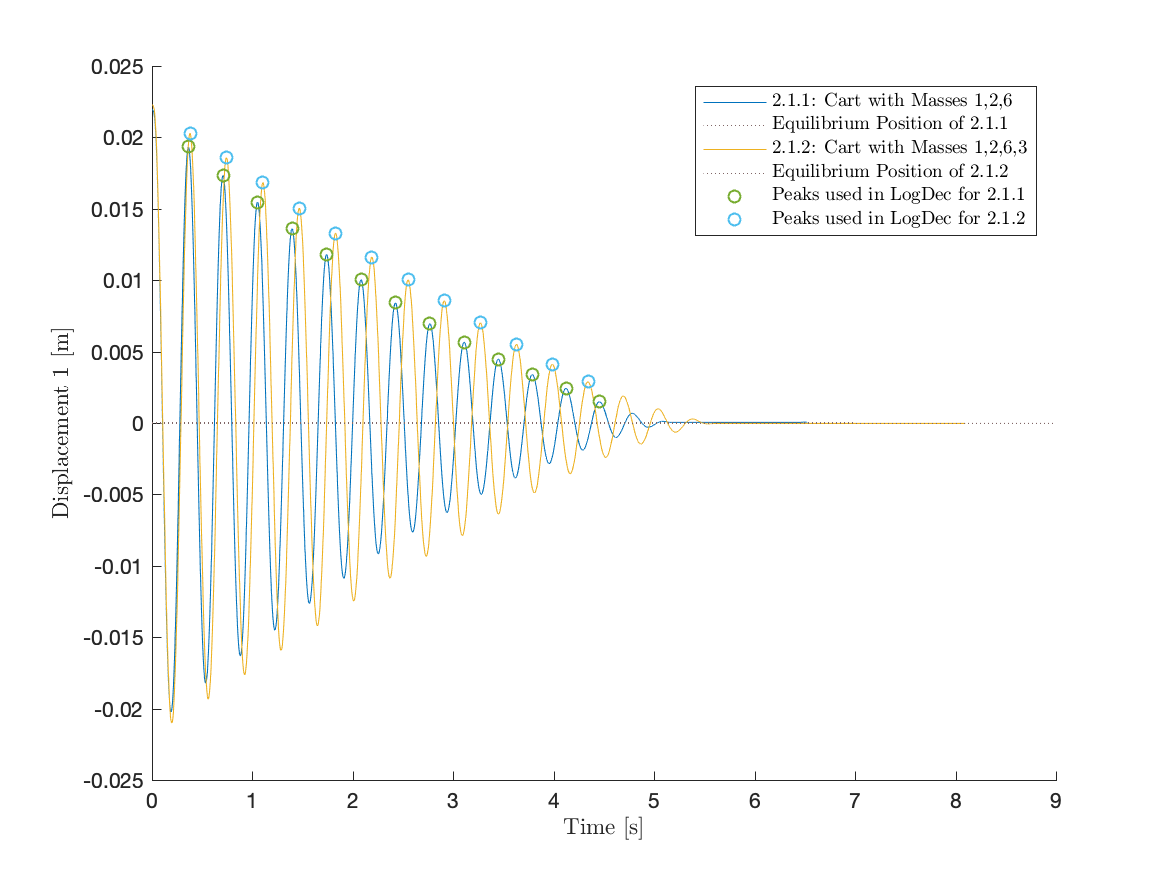
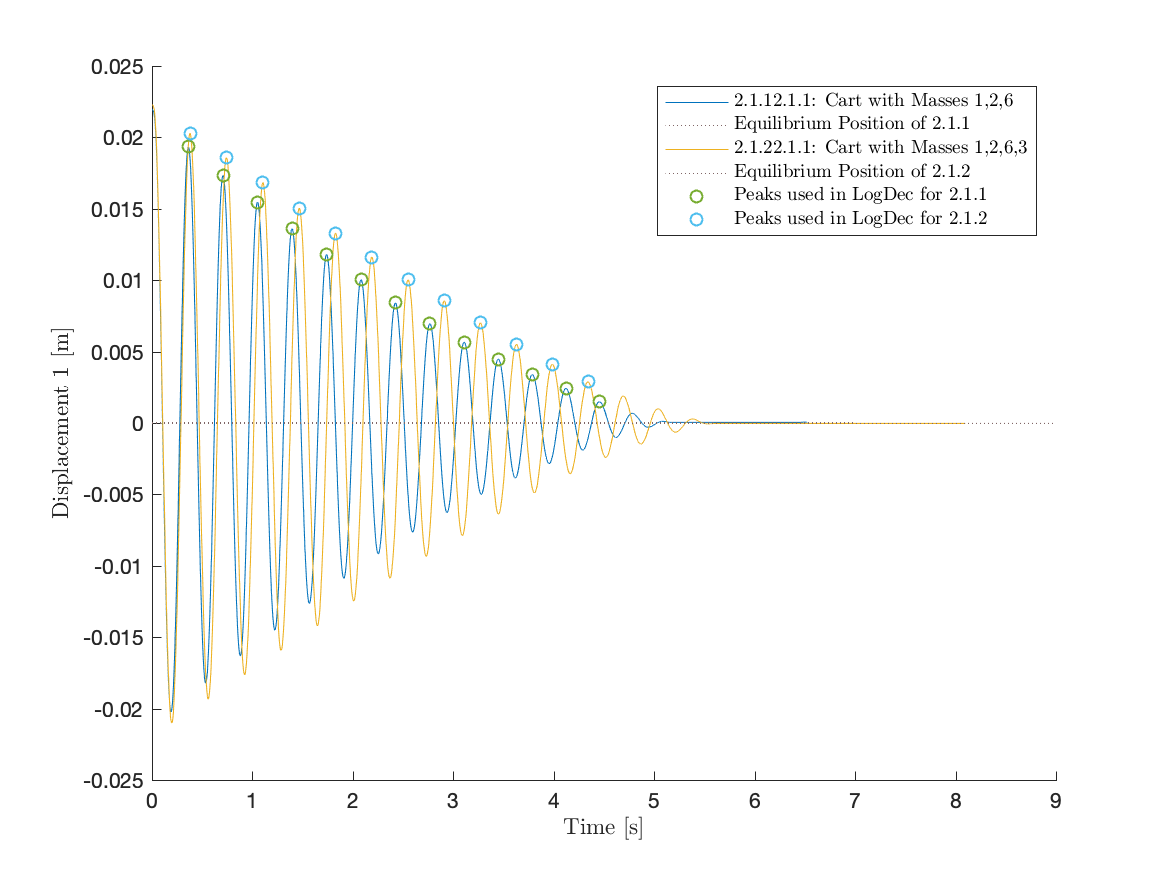
Generalized Q2

Changed region(s): [[0.5861, 0.0926, 0.8638, 0.2777]]

diff --git a/Lab 1/cart_logdec_solver.m b/Lab 1/cart_logdec_solver.m
@@ -1,0 +1,110 @@
+% Recover all system properties possible from two subsequent trials of a
+% cart in free vibration with different known masses attached to it.
+% - Root is the path to the root directory of where the raw test data is
+% stored.
+% - testXID and is human readable name / reference ID for the trial X (eg.
+% 2.1.1.)
+% - testXName and is the name of the xlsx file containing the raw data for 
+% trial X (no extensions).
+% - testXMasses is the a list of the IDs of the masses added to the cart in
+% trial X (eg. [1 2 6]). Can be an empty list if no masses attached.
+function cart_logdec_solver(root, test1ID, test1Name, test1Masses, test2ID, test2Name, test2Masses)
+    addpath('..');
+    %% PRIOR KNOWNS:
+    % Masses of Blocks [kg]:
+    mb(1) = 490.5e-3; 
+    mb(2) = 485.5e-3;
+    mb(3) = 240.5e-3;
+    mb(6) = 490.5e-3;
+    
+    % Total Masses Added to Carts [kg]:
+    m1 = sum(mb(test1Masses));
+    m2 = sum(mb(test2Masses));
+    
+    %% LOAD AND FORMAT DATA:
+    Ts = {}; % Cell Array of ETables for Each Data Collection
+    i = 1;
+    for test = [test1Name, test2Name]
+        try
+            % Load cached file if there is one
+            load(char(root+test+".mat"), 'T');
+            Ts{i} = T;
+        catch
+            % Otherwise, create ETable from xlsx of raw data and then
+            % cache it.
+            T = ETable(char(root+test+".xlsx"), ["t","F", "x1","x2","x3", "E", "v1","v2","v3", "a1","a2","a3", "note"]); % Long-form names used in plotting are automatically imported from column headers
+            save(char(root+test+".mat"), 'T');
+            Ts{i} = T;
+        end
+        i = i+1;
+    end
+    
+    % Assign (latex formatted) Units to Each Column:
+    for i=1:2
+        Ts{i}.unitsList = ["s","N", "m","m","m", "", "$\tfrac{m}{s}$","$\tfrac{m}{s}$","$\tfrac{m}{s}$", "$\tfrac{m}{s^2}$","$\tfrac{m}{s^2}$","$\tfrac{m}{s^2}$", ""];
+  
+        % Rename Poorly Named Columns:
+        Ts{i}.rename('t', 'Time [s]');
+        Ts{i}.rename('F', 'Force [N]');
+        % Update to SI Base Units:
+        Ts{i}.edit('x1', Ts{i}.x1 * 1e-3);
+        Ts{i}.rename('x1', 'Displacement 1 [m]');
+    end
+    
+    %% ANALYZE DATA:
+    % Find Start Time of Free Vibration, t0 (visually vertified that this
+    % also is the highest peak):
+    for i = 1:2
+        [~,maxIdx] = max(Ts{i}.x1);
+        t_start(i) = Ts{i}.t(maxIdx(1));
+    end
+    
+    % Attempt Logarithmic Decrement:
+    [z1, wn1, peaks1]  = Ts{1}.logdec('t','x1', Ts{1}.t > t_start(1));
+    [z2, wn2, peaks2]  = Ts{2}.logdec('t','x1', Ts{2}.t > t_start(2));
+    
+    % Reconstruct System Parameters to Verify Accuracy:
+    % (assuming mass has already been experimentally verified).
+    exp = struct(); % Experimentally Recovered Parameters
+    exp.z1 = z1;
+    exp.z2 = z2;
+    exp.M = (m2*wn2^2 - m1*wn1^2) / (wn1^2 - wn2^2);
+    exp.k1 = (exp.M + m1)*wn1^2;
+    exp.k2 = (exp.M + m2)*wn2^2;
+    exp.c1 = 2*z1*wn1*(exp.M+m1);
+    exp.c2 = 2*z2*wn2*(exp.M+m2);
+    
+    % Display Results for Evaluation:
+    disp("Parameters Recovered from Data (in SI Base Units):");
+    disp(exp);
+    disp("Damping Ratio Percent Difference:");
+    disp( 100 * abs(diff([z1 z2])) / mean([z1 z2]) );
+    disp("Damping Coefficient Percent Difference:");
+    disp( 100 * abs(diff([exp.c1 exp.c2])) / mean([exp.c1 exp.c2]) );
+    
+    
+    %% VISUALIZE DATA TO VERIFY LOG DECREMENT PEAK SELECTION:
+    % Plot Output to Verify ETable Conversion:
+    figure();
+    for i = 1:2
+        % Plot the system response
+        Ts{i}.plot('t', 'x1', Ts{i}.t >= t_start(i), '-', -t_start(i));
+        % Also plot the equilibrium positions:
+        ETable.hline(Ts{i}.x1(end), '', 'left', 'bottom');
+    end
+    % Highlight peaks used on the plot:
+    hold on
+        scatter(peaks1.X-t_start(1), peaks1.Y);
+        scatter(peaks2.X-t_start(2), peaks2.Y);
+    hold off
+    massesList1 = sprintf('%.0f,' , test1Masses);
+    massesList2 = sprintf('%.0f,' , test2Masses);
+    legend({...
+        char(test1ID+"2.1.1: Cart with Masses "+massesList1(1:end-1)), ...
+        char("Equilibrium Position of "+test1ID), ...
+        char(test2ID+"2.1.1: Cart with Masses "+massesList2(1:end-1)), ...
+        char("Equilibrium Position of "+test2ID), ...
+        char("Peaks used in LogDec for "+test1ID), ...
+        char("Peaks used in LogDec for "+test2ID), ...
+        }, 'Interpreter', 'latex');
+end

diff --git a/Lab 1/rect_q2.m b/Lab 1/rect_q2.m
@@ -1,95 +1,6 @@
 % Recover Cart Mass:
 function rect_q2()
-    addpath('..');
-    %% PRIOR KNOWNS:
-    % Masses of Blocks [kg]:
-    mb1 = 490.5e-3; 
-    mb2 = 485.5e-3;
-    mb3 = 240.5e-3;
-    mb6 = 490.5e-3;
-    
-    % Total Masses Added to Carts [kg]:
-    m1 = mb1+mb2+mb6;% Mass added to cart in trial 2.1.1
-    m2 = mb1+mb2+mb6+mb3;% Mass added to cart in trial 2.1.2
-    
-    %% LOAD AND FORMAT DATA:
     root = "RectData/exp2/car1/";
-    Ts = {}; % Cell Array of ETables for Each Data Collection
-    i = 1;
-    for test = ["test1", "test2"]
-        try
-            % Load cached file if there is one
-            load(char(root+test+".mat"), 'T');
-            Ts{i} = T;
-        catch
-            % Otherwise, create ETable from xlsx of raw data and then
-            % cache it.
-            T = ETable(char(root+test+".xlsx"), ["t","F", "x1","x2","x3", "E", "v1","v2","v3", "a1","a2","a3", "note"]); % Long-form names used in plotting are automatically imported from column headers
-            save(char(root+test+".mat"), 'T');
-            Ts{i} = T;
-        end
-        i = i+1;
-    end
-    
-    % Assign (latex formatted) Units to Each Column:
-    for i=1:2
-        Ts{i}.unitsList = ["s","N", "m","m","m", "", "$\tfrac{m}{s}$","$\tfrac{m}{s}$","$\tfrac{m}{s}$", "$\tfrac{m}{s^2}$","$\tfrac{m}{s^2}$","$\tfrac{m}{s^2}$", ""];
-  
-        % Rename Poorly Named Columns:
-        Ts{i}.rename('t', 'Time [s]');
-        Ts{i}.rename('F', 'Force [N]');
-        % Update to SI Base Units:
-        Ts{i}.edit('x1', Ts{i}.x1 * 1e-3);
-        Ts{i}.rename('x1', 'Displacement 1 [m]');
-    end
-    
-    %% ANALYZE DATA:
-    % Find Start Time of Free Vibration, t0 (visually vertified that this
-    % also is the highest peak):
-    for i = 1:2
-        [~,maxIdx] = max(Ts{i}.x1);
-        t_start(i) = Ts{i}.t(maxIdx(1));
-    end
-    
-    % Attempt Logarithmic Decrement:
-    [z1, wn1, peaks1]  = Ts{1}.logdec('t','x1', Ts{1}.t > t_start(1));
-    [z2, wn2, peaks2]  = Ts{2}.logdec('t','x1', Ts{2}.t > t_start(2));
-    
-    % Reconstruct System Parameters to Verify Accuracy:
-    % (assuming mass has already been experimentally verified).
-    exp = struct(); % Experimentally Recovered Parameters
-    exp.z1 = z1;
-    exp.z2 = z2;
-    exp.M = (m2*wn2^2 - m1*wn1^2) / (wn1^2 - wn2^2);
-    exp.k1 = (exp.M + m1)*wn1^2;
-    exp.k2 = (exp.M + m2)*wn2^2;
-    exp.c1 = 2*z1*wn1*(exp.M+m1);
-    exp.c2 = 2*z2*wn2*(exp.M+m2);
-    
-    % Display Results for Evaluation:
-    disp("Parameters Recovered from Data (in SI Base Units):");
-    disp(exp);
-    disp("Damping Ratio Percent Difference:");
-    disp( 100 * abs(diff([z1 z2])) / mean([z1 z2]) );
-    disp("Damping Coefficient Percent Difference:");
-    disp( 100 * abs(diff([exp.c1 exp.c2])) / mean([exp.c1 exp.c2]) );
-    
-    
-    %% VISUALIZE DATA TO VERIFY LOG DECREMENT PEAK SELECTION:
-    % Plot Output to Verify ETable Conversion:
-    figure();
-    for i = 1:2
-        % Plot the system response
-        Ts{i}.plot('t', 'x1', Ts{i}.t >= t_start(i), '-', -t_start(i));
-        % Also plot the equilibrium positions:
-        ETable.hline(Ts{i}.x1(end), '', 'left', 'bottom');
-    end
-    % Highlight peaks used on the plot:
-    hold on
-        scatter(peaks1.X-t_start(1), peaks1.Y);
-        scatter(peaks2.X-t_start(2), peaks2.Y);
-    hold off
-    legend({'2.1.1: Cart with Masses 1,2,6', 'Equilibrium Position of 2.1.1', '2.1.2: Cart with Masses 1,2,6,3', 'Equilibrium Position of 2.1.2', 'Peaks used in LogDec for 2.1.1','Peaks used in LogDec for 2.1.2'}, 'Interpreter', 'latex');
+    cart_logdec_solver(root, "2.1.1", "test1", [1,2,6], "2.1.2", "test2", [1,2,6,3])
     saveas(gcf, 'rect_q2.png', 'png');
-
 end
